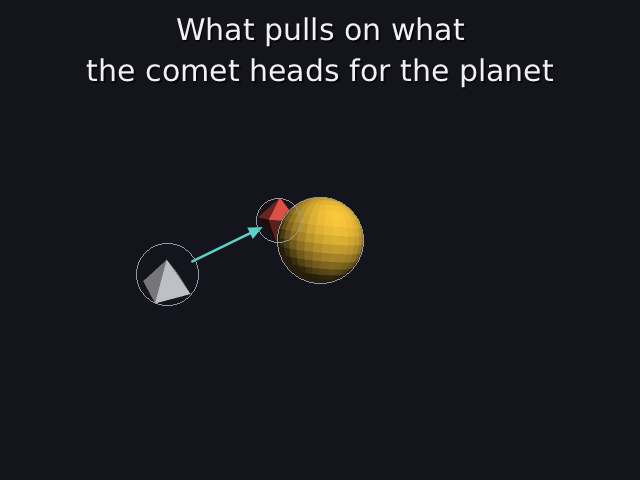
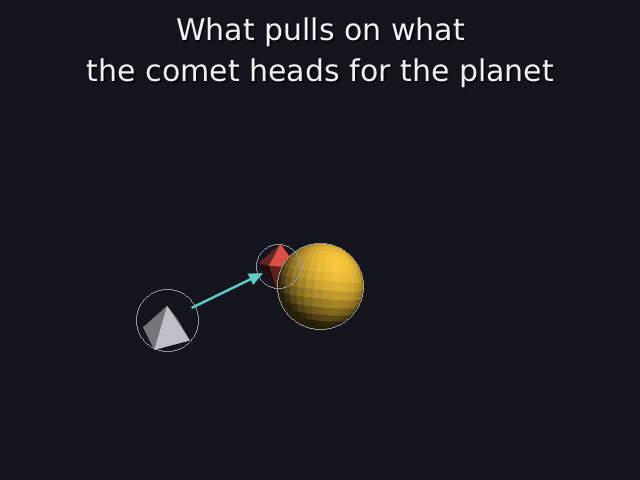
Fit the title band to what shows at once

Changed region(s): [[0.375, 0.4062, 0.5938, 0.6875], [0.2188, 0.5312, 0.375, 0.75], [0.3125, 0.5, 0.375, 0.5312]]

diff --git a/layout.cpp b/layout.cpp
@@ -148,6 +148,17 @@ void layout::solve(method how){
 	energy_log.clear();
 	halved = 0;
 	framed = false;
+	// The band can't take more than 40% of the picture: past the middle,
+	// nothing could ever be below it, and the camera would back off forever
+	// looking for a distance where everything fits (docs/31).
+	float most = 0.4f * float(picture_height);
+	if(top_band_px > most){
+		std::ostringstream note;
+		note << "the titles and formulas need " << int(top_band_px) << " pixels at the top, more than "
+		     << int(most) << " (40% of the picture); fewer at the same time would leave more room for the scene";
+		warnings.push_back(note.str());
+		top_band_px = most;
+	}
 	switch(how){
 		case method::naive:  place_naive();  method_name = "naive";  break;
 		case method::greedy: place_greedy(); method_name = "greedy"; break;
@@ -392,16 +403,14 @@ void layout::frame(){
 		else                      low_d  = mid;
 	}
 	camera_distance = high_d;
-	eye    = scene_center + view_direction(spec.view) * camera_distance;
-	target = scene_center;
+	place_camera(camera_distance);
 	framed = true;
 }
 
 // Does every sphere fit in the picture, with a 5% margin, when the camera
 // stands `distance` from the scene's center? (Moves the camera to check.)
 bool layout::fits_at(float distance,const std::vector<sphere>& spheres){
-	eye    = scene_center + view_direction(spec.view) * distance;
-	target = scene_center;
+	place_camera(distance);
 	for(const sphere& s : spheres){
 		if(!in_picture(s.center, s.radius, 0.95f, s.extra_px)) return false;
 	}
@@ -428,6 +437,20 @@ static camera_axes axes_of(const vec3& eye,const vec3& target){
 	a.right   = normalize(cross(a.forward, vec3(0.0f, 1.0f, 0.0f)));
 	a.up      = cross(a.right, a.forward);
 	return a;
+}
+
+// The camera, `distance` away from the scene's center in the view's
+// direction. With titles at the top (docs/31), the picture left for the
+// scene is the part below the band, and its middle is band/2 below the
+// picture's middle. So the camera tilts up a little: looking at a point
+// u · distance above the center turns the view by atan(u), and the center
+// then shows up exactly u (in tan units) below the middle.
+//      u = (band / 2) · (1 px in tan units)
+void layout::place_camera(float distance){
+	eye    = scene_center + view_direction(spec.view) * distance;
+	target = scene_center;
+	float u = 0.5f * top_band_px * px_to_tan();
+	target = scene_center + axes_of(eye, target).up * (u * distance);
 }
 
 layout::seen layout::look(int i,bool with_label)const{

diff --git a/solver.cpp b/solver.cpp
@@ -77,12 +77,32 @@ static float estimate_label_width(const object_spec& o){
 	return 0.6f * 20.0f * float(shown) + 6.0f;
 }
 
+// How tall the band at the top must be (docs/31): a title takes ~40 pixels
+// and a formula ~60, plus a 12-pixel margin. But only the ones showing at
+// the same moment are stacked (world.cpp), so it's the tallest stack at any
+// moment. The stack only grows when something starts, so checking at every
+// start time is enough.
+static float words_band(const scene_spec& s){
+	auto showing = [](const title_spec& w,float t){ return t >= w.start && (w.end < 0.0f || t < w.end); };
+	float tallest = 0.0f;
+	std::vector<float> starts;
+	for(const title_spec& w : s.titles) starts.push_back(w.start);
+	for(const title_spec& w : s.maths) starts.push_back(w.start);
+	for(float t : starts){
+		float stack = 0.0f;
+		for(const title_spec& w : s.titles) if(showing(w, t)) stack += 40.0f;
+		for(const title_spec& w : s.maths) if(showing(w, t)) stack += 60.0f;
+		tallest = std::max(tallest, stack);
+	}
+	return tallest > 0.0f ? 12.0f + tallest : 0.0f;
+}
+
 // Solve the still objects, and hand them to the motion planner as obstacles.
 std::vector<obstacle> scene_solver::solve_still(layout::method how){
-	// room for words (docs/31): a band at the top for each title (~40 px) and
-	// formula (~60 px), and every label's width
+	// room for words (docs/31): a band at the top for the titles and
+	// formulas, and every label's width
 	const scene_spec& s = split.still;
-	float band = (s.titles.empty() && s.maths.empty()) ? 0.0f : 12.0f + 40.0f * s.titles.size() + 60.0f * s.maths.size();
+	float band = words_band(s);
 	std::vector<float> widths;
 	for(const object_spec& o : s.objects) widths.push_back(estimate_label_width(o));
 	still_layout.set_words(band, widths, 480);

diff --git a/layout.h b/layout.h
@@ -151,6 +151,7 @@ private:
 	float scene_radius = 0.0f;
 	float camera_distance = 0.0f;
 	float sphere_distance = 0.0f;           // the safe (loose) distance from the sphere fit
+	void place_camera(float distance);   // eye and target, tilted down below the titles (docs/31)
 	bool fits_at(float distance,const std::vector<sphere>& spheres);
 	int count_hidden()const;
 	int count_off_screen()const;

diff --git a/docs/31-room-for-words.md b/docs/31-room-for-words.md
@@ -30,6 +30,28 @@ margin. The solver reserves that much at the top of the picture:
 band = 12 + 40 · titles + 60 · formulas          labelled.dan: 12 + 40 + 60 = 112 pixels
 ```
 
+**Only the ones on screen at the same time count.** The world stacks just
+the titles and formulas that are showing right now, so the band is the
+**tallest stack at any moment**. A stack only grows when something starts,
+so it's enough to count at every start time (`words_band` in `solver.cpp`).
+`scenes/showcase.dan` has 3 titles and 2 formulas, but never more than 2
+titles and 1 formula at once:
+
+```
+at 0 s:   title 1, formula 1             40 + 60      = 100
+at 4 s:   titles 1 and 2, formula 1      40 + 40 + 60 = 140   ← the tallest
+at 12 s:  title 1, formula 2             40 + 60      = 100
+at 13 s:  titles 1 and 3, formula 2      40 + 40 + 60 = 140
+band = 12 + 140 = 152 pixels          (adding them all up would give 252)
+```
+
+That scene found the bug: with 252 of 480 pixels reserved, the band reached
+past the middle of the picture. An object at the center is then already
+"under the titles" at **any** distance, so the camera's search backed off to
+a distance of 172,600. Now the band is counted properly, and as a safety
+net it never takes more than 40% of the picture; past that, the report
+says the scene has too many words at once.
+
 The framing's "is it in the picture" test (15) then uses a lower top edge. In
 look()'s tan units (13), one pixel is
 
@@ -38,9 +60,24 @@ look()'s tan units (13), one pixel is
 top edge = tan(25°) − band · 0.00194 = 0.4663 − 112 · 0.00194 = 0.2487
 ```
 
-so an object's circle must stay below 0.2487 instead of 0.4663. The camera's
-binary search (14) handles the frame being uneven: it just finds the closest
-distance where everything clears the band.
+so an object's circle must stay below 0.2487 instead of 0.4663.
+
+**Aim at the middle of what's left.** The picture left for the scene runs
+from the band's bottom edge down to the picture's bottom, so its middle is
+**band/2 below** the picture's middle. If the camera kept aiming at the
+scene's center, the scene would sit in the middle of the whole picture, and
+the camera would have to back off until its top cleared the band, leaving
+the bottom empty. So the camera tilts up a little (`place_camera`): looking
+at a point u · distance above the center turns the view by atan(u), and the
+center then shows up exactly u below the middle.
+
+```
+u = (band / 2) · (1 px in tan units) = 56 · 0.00194 = 0.109       labelled.dan
+```
+
+The camera's binary search (14) then finds the closest distance where
+everything fits below the band. For `labelled.dan` the camera came in from
+30.7 to 21.2, and the bottom of the picture is used.
 
 The **label layout** gets the same band as a **keep-out** box: no label may be
 placed on it (`label_layout::keep_out`). The world uses the real height of
@@ -109,7 +146,7 @@ crowded one; scenes without labels pass trivially.
 | labels with room | 8 of 9 (the cube's is missing) | **9 of 9** |
 | anything under the title band | the ring, right against the formula | **nothing** |
 | `near cube` relations | ok | **weak** (within 4 instead of 2) |
-| camera distance | 11.4 | 30.7 |
+| camera distance | 11.4 | 21.2 (30.7 before the camera aimed below the band) |
 
 Room for nine labels round one cube has to come from somewhere: the objects
 spread out a little further than "near" allows, and the camera backs off to
@@ -124,3 +161,6 @@ A scene with 2 titles and no formulas. How tall is the band, and where's the
 top edge in tan units?
 
 Answer: 12 + 2 · 40 = 92 pixels; 0.4663 − 92 · 0.00194 = 0.2876.
+
+And if one title shows 0–5 s and the other 5–10 s? Then they're never on
+screen together: 12 + 40 = 52 pixels.
